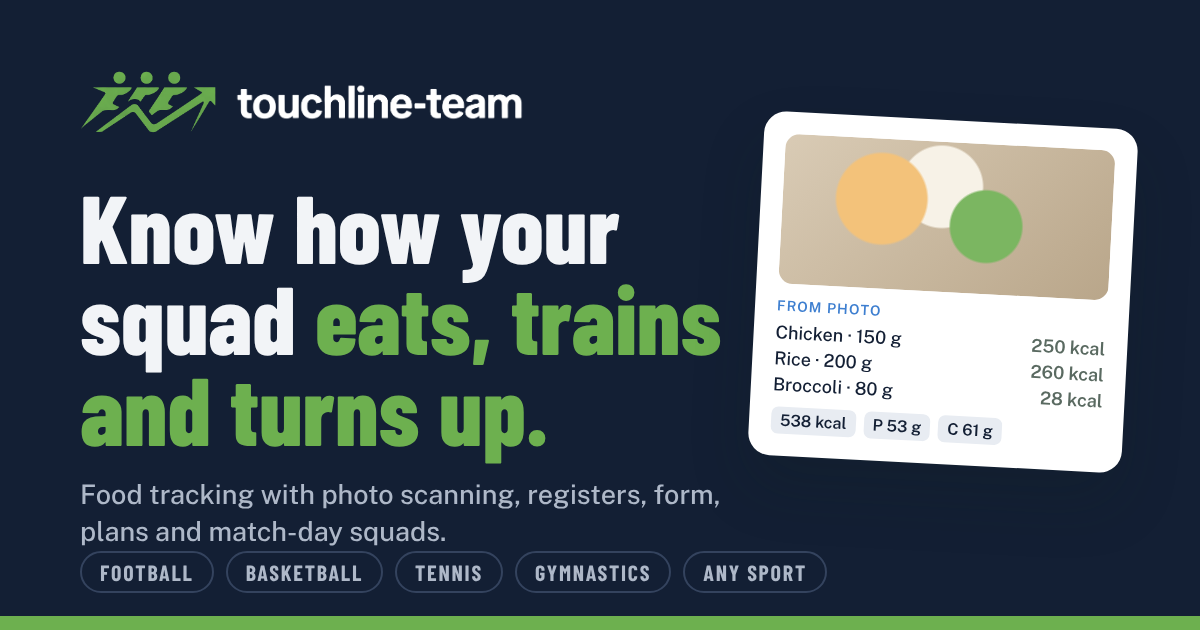
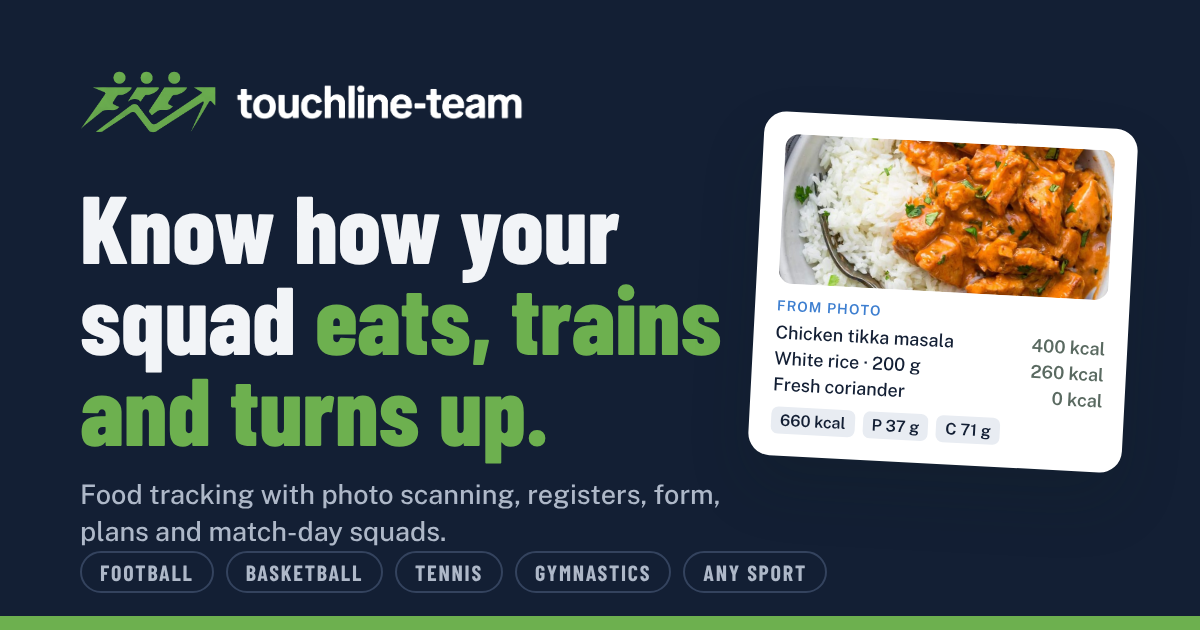
Use a real meal photo in the front page preview and link image
Replaces the placeholder circles with a photo of chicken tikka masala
and rice, with scanned items and totals to match, and removes the fake
browser-window dots from the product preview.

Claude-Session: https://claude.ai/code/session_01QveS6w2wDWHtPNbe23caRS

diff --git a/index.html b/index.html
@@ -64,8 +64,6 @@
   /* product mock */
   .mock{position:relative}
   .mock .screen{background:var(--surface);border:1px solid var(--line);border-radius:18px;box-shadow:0 30px 70px rgba(19,31,52,.16),0 4px 14px rgba(19,31,52,.06);overflow:hidden}
-  .mock .bar{display:flex;gap:6px;padding:10px 14px;border-bottom:1px solid var(--line);background:var(--surface-2)}
-  .mock .bar i{width:9px;height:9px;border-radius:50%;background:var(--line)}
   .mock .body{padding:14px;display:flex;flex-direction:column;gap:10px}
   .mock .nextm{background:var(--ink);color:var(--bg);border-radius:12px;padding:12px 14px;display:flex;align-items:center;gap:12px}
   .mock .nextm .d{font-family:var(--f-display);font-weight:800;font-size:30px;line-height:1}
@@ -82,7 +80,7 @@
   .flagm{display:flex;gap:8px;align-items:center;padding:8px 10px;border-radius:9px;background:var(--surface-2);border-left:4px solid var(--warn);font-size:12.5px}
   .mock{margin-bottom:40px}
   .float{position:absolute;right:-14px;bottom:-60px;width:min(250px,62%);background:var(--surface);border:1px solid var(--line);border-radius:16px;padding:12px;box-shadow:0 20px 50px rgba(19,31,52,.18);transform:rotate(2deg)}
-  .float .ph{height:86px;border-radius:10px;background:radial-gradient(circle at 30% 40%,#f3c27a 0 18%,transparent 19%),radial-gradient(circle at 62% 55%,#7bb661 0 16%,transparent 17%),radial-gradient(circle at 48% 30%,#f7f2e7 0 20%,transparent 21%),linear-gradient(135deg,#d9cbb5,#b9a68a);margin-bottom:8px}
+  .float .ph{display:block;width:100%;height:auto;aspect-ratio:16/9;object-fit:cover;border-radius:10px;margin-bottom:8px}
   .float .lbl{font-size:10px;font-weight:700;letter-spacing:.08em;text-transform:uppercase;color:var(--accent)}
   .float ul{list-style:none;margin:6px 0 0;padding:0;font-size:12px;display:flex;flex-direction:column;gap:3px}
   .float li{display:flex;justify-content:space-between;gap:8px}
@@ -193,7 +191,6 @@
 
       <div class="mock" aria-label="Example of the coach’s Today screen">
         <div class="screen">
-          <div class="bar" aria-hidden="true"><i></i><i></i><i></i></div>
           <div class="body">
             <div class="nextm"><div class="d">24<small>Sat</small></div><div><b>vs Kingsway Colts</b><span>11:00 · 14 available · 1 can’t make it · 2 no reply</span></div></div>
             <div class="flagm"><span class="jersey" style="width:24px;height:24px;font-size:12px">9</span>Ade can’t make Saturday: school exam</div>
@@ -205,10 +202,10 @@
           </div>
         </div>
         <div class="float" aria-label="Example of a scanned meal">
-          <div class="ph" role="img" aria-label="Meal photo"></div>
+          <img class="ph" src="meal-photo.jpg" alt="A bowl of chicken tikka masala with white rice and coriander" width="800" height="450">
           <div class="lbl">From photo · check and adjust</div>
-          <ul><li><span>Chicken breast · 150 g</span><span>250 kcal</span></li><li><span>White rice · 200 g</span><span>260 kcal</span></li><li><span>Broccoli · 80 g</span><span>28 kcal</span></li></ul>
-          <div class="tot"><span class="chip">538 kcal</span><span class="chip">P 53 g</span><span class="chip">C 61 g</span><span class="chip">F 7 g</span></div>
+          <ul><li><span>Chicken tikka masala · 250 g</span><span>400 kcal</span></li><li><span>White rice · 200 g</span><span>260 kcal</span></li><li><span>Fresh coriander · 2 g</span><span>0 kcal</span></li></ul>
+          <div class="tot"><span class="chip">660 kcal</span><span class="chip">P 37 g</span><span class="chip">C 71 g</span><span class="chip">F 25 g</span></div>
         </div>
       </div>
     </div>
